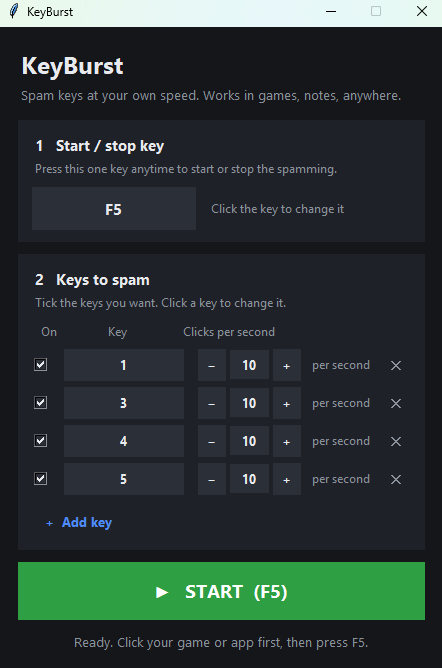
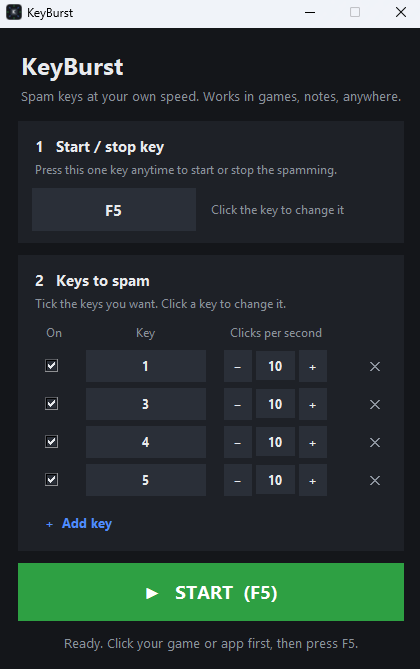
Align key rows, Update screenshot

diff --git a/app.py b/app.py
@@ -99,6 +99,16 @@ def flat_button(parent, text="", command=None, bg=FIELD, over=FIELD_HOVER,
     return b
 
 
+COL_MIN = {0: 44, 1: 140, 2: 120}  # On, Key, Speed column widths (px)
+
+
+def setup_columns(frame):
+    """Same column widths for the header and every row, so they line up."""
+    for col, size in COL_MIN.items():
+        frame.grid_columnconfigure(col, minsize=size)
+    frame.grid_columnconfigure(3, weight=1)  # pushes the remove button to the right edge
+
+
 def make_card(parent, title, hint):
     card = tk.Frame(parent, bg=CARD, padx=14, pady=12)
     card.pack(fill="x", pady=(0, 12))
@@ -119,27 +129,30 @@ class Row:
         self.label = tk.StringVar(value=self.key.get().upper())
         self.cps = tk.StringVar(value=f"{data.get('cps', 10):g}")
         f = self.frame
+        setup_columns(f)
 
         tk.Checkbutton(f, variable=self.enabled, command=app.sync, bg=CARD,
                        activebackground=CARD, selectcolor=FIELD, fg=TEXT,
                        bd=0, highlightthickness=0, cursor="hand2"
-                       ).grid(row=0, column=0, padx=(0, 10))
+                       ).grid(row=0, column=0)
         self.key_btn = flat_button(f, command=lambda: app.record_key(self), width=12)
         self.key_btn.config(textvariable=self.label)
-        self.key_btn.grid(row=0, column=1, padx=(0, 14))
+        self.key_btn.grid(row=0, column=1)
 
-        flat_button(f, "−", lambda: self.step(-1), width=2, padx=4).grid(row=0, column=2)
-        self.entry = tk.Entry(f, textvariable=self.cps, width=5, justify="center",
+        speed = tk.Frame(f, bg=CARD)
+        speed.grid(row=0, column=2)
+        flat_button(speed, "−", lambda: self.step(-1), width=2, padx=4).pack(side="left")
+        self.entry = tk.Entry(speed, textvariable=self.cps, width=5, justify="center",
                               bg=FIELD, fg=TEXT, insertbackground=TEXT,
                               relief="flat", font=FONT_B)
-        self.entry.grid(row=0, column=3, padx=4, ipady=4)
+        self.entry.pack(side="left", padx=4, ipady=4)
         self.entry.bind("<KeyRelease>", lambda e: app.sync())
         self.entry.bind("<FocusOut>", lambda e: self.normalize())
-        flat_button(f, "+", lambda: self.step(1), width=2, padx=4).grid(row=0, column=4)
+        flat_button(speed, "+", lambda: self.step(1), width=2, padx=4).pack(side="left")
 
         rm = flat_button(f, "✕", lambda: app.remove_row(self), bg=CARD, over=RED,
                          fg=MUTED, width=2, padx=4)
-        rm.grid(row=0, column=6, padx=(10, 0))
+        rm.grid(row=0, column=3, sticky="e")
 
     def show(self):
         self.label.set(self.key.get().upper())
@@ -217,13 +230,12 @@ class App:
         body = make_card(outer, "2   Keys to spam",
                          "Tick the keys you want. Click a key to change it.")
         head = tk.Frame(body, bg=CARD)
-        head.pack(anchor="w")
-        tk.Label(head, text="On", width=4, bg=CARD, fg=MUTED, font=FONT_S).grid(row=0, column=0)
-        tk.Label(head, text="Key", width=14, bg=CARD, fg=MUTED, font=FONT_S).grid(row=0, column=1)
-        tk.Label(head, text="Clicks per second", bg=CARD, fg=MUTED, font=FONT_S
-                 ).grid(row=0, column=2, padx=(10, 0))
+        head.pack(fill="x")
+        setup_columns(head)
+        for col, text in enumerate(("On", "Key", "Clicks per second")):
+            tk.Label(head, text=text, bg=CARD, fg=MUTED, font=FONT_S).grid(row=0, column=col)
         self.rows_frame = tk.Frame(body, bg=CARD)
-        self.rows_frame.pack(anchor="w", pady=(4, 0))
+        self.rows_frame.pack(fill="x", pady=(4, 0))
         for entry in self.cfg["entries"][:MAX_ROWS]:
             self._add_row(entry)
         self.add_btn = flat_button(body, "+  Add key", self.add_row, bg=CARD,
@@ -247,7 +259,7 @@ class App:
     # ---- rows
     def _add_row(self, data):
         row = Row(self, self.rows_frame, data)
-        row.frame.pack(anchor="w", pady=3)
+        row.frame.pack(fill="x", pady=3)
         self.rows.append(row)
 
     def add_row(self):
